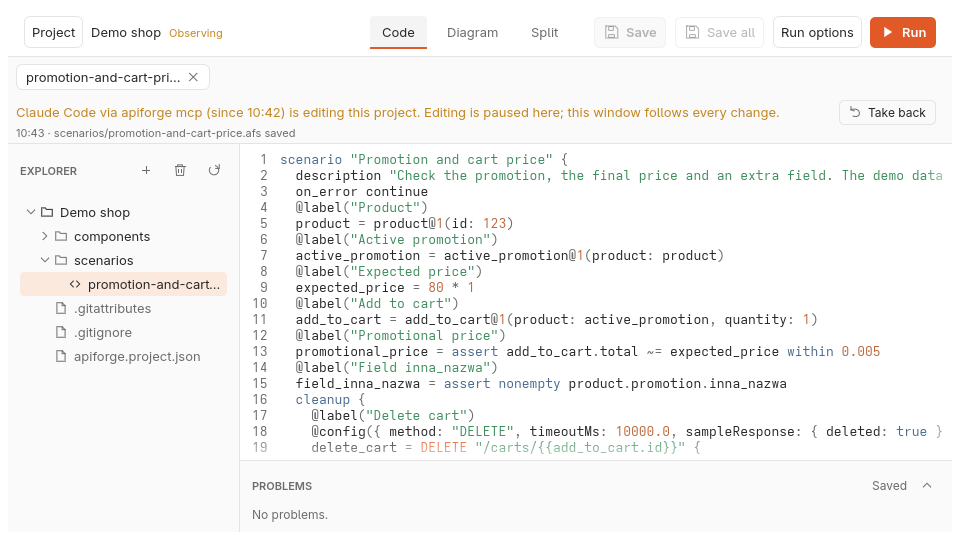
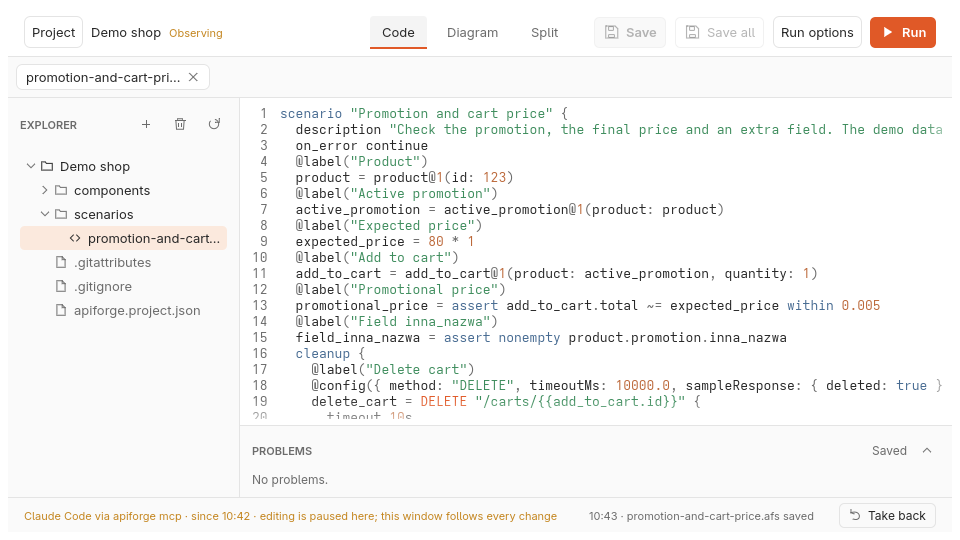
docs(mcp): M1/M4 approved as the bottom status bar; the window tickets follow the round-4 captures

diff --git a/docs/tickets/MCP-07.md b/docs/tickets/MCP-07.md
@@ -20,15 +20,18 @@ holder that is still there.
 
 ## What the owner will see
 
-- New: the read-only notice names the holder and when it took the project:
-  *Claude Code via apiforge mcp (since 10:42) is editing this project. This
-  window follows its changes.* For another window: *Another API Forge window
-  (since 10:40)…*; for the command line: *apiforge apply (since 10:41)…*. An
-  older build that wrote nothing into the lock gets today's wording. The
-  exact wording is mock-up M1's.
+- New: a status bar at the bottom of the window (36 px, only while the
+  window is not the writer) names the holder and when it took the project:
+  *Claude Code via apiforge mcp · since 10:42 · editing is paused here; this
+  window follows every change*. For another window: *Another API Forge
+  window · since 10:40 · …*; for the command line: *apiforge apply · since
+  10:41 · …*. The header badge reads *Observing*. The notice under the tabs
+  that says *Another window is editing this project* goes. An older build
+  that wrote nothing into the lock gets a generic *Another process* wording
+  in the bar. Mock-up M1, round 4, approved 2026-10-27.
 - Changed: a read-only window checks once a second (with the existing
   external check) whether the holder is gone and, when it is, takes the lock,
-  drops the badge and the notice, and enables *Save*, *Save all* and
+  drops the badge and the bar, and enables *Save*, *Save all* and
   *Publish*. If the holder left an activated transaction, the window's
   recovery view opens as at start; if it left an interrupted live run, the
   journal notice appears as at start.
@@ -38,9 +41,9 @@ holder that is still there.
 
 ## Mock-up
 
-M1 (MCP-00): an annotated review capture of the folder window's header and
-notice at 960 × 540 and 1600 × 1000 with the wording for the agent, another
-window and `apply`, from a throwaway `review_*` test, posted on the issue.
+M1 (MCP-00), round 4, approved 2026-10-27:
+`docs/qa/2026-10-27/MCP-00/m1-*.png` — the header badge and the bottom bar
+at 960 × 540 and 1600 × 1000 for the agent, another window and `apply`.
 
 ## Decisions for the owner
 
@@ -56,11 +59,11 @@ window and `apply`, from a throwaway `review_*` test, posted on the issue.
    path or a secret — and `ProjectStore::holder()` reads it from a read-only
    store; the file is still never unlinked or replaced (KTLO-21's tests pass
    unchanged).
-2. A window opened while a process holds the lock shows the notice with that
+2. A window opened while a process holds the lock shows the bar with that
    process's description; while a lock file from an older build (empty) is
-   held, it shows today's wording.
+   held, it shows the generic wording.
 3. When the holder releases the lock, the read-only window becomes the writer
-   within two seconds: the badge and the notice disappear, *Save* is enabled,
+   within two seconds: the badge and the bar disappear, *Save* is enabled,
    and a save succeeds (headless interaction test: take the lock in the test,
    open the window, release, settle, assert through named widgets).
 4. The take-back never steals: while the holder still holds the lock, the
@@ -70,8 +73,9 @@ window and `apply`, from a throwaway `review_*` test, posted on the issue.
 5. A holder that left an activated transaction: the window, on take-back,
    opens the recovery view it opens at start; a holder that left an
    interrupted live run: the journal notice appears, as at start.
-6. At 960 × 540 the longer notice stays inside the window
-   (`assert_within_window`) in Code, Diagram and Split.
+6. At 960 × 540 the bar and the badge stay inside the window
+   (`assert_within_window`) in Code, Diagram and Split; the Problems panel
+   and the diagram's zoom bar sit above the bar without overlap.
 7. The QA report compares the implementation against M1; the verification
    commands of the development guide pass.
 

diff --git a/docs/tickets/MCP-00.md b/docs/tickets/MCP-00.md
@@ -503,10 +503,10 @@ a throwaway branch, at 960 × 540 and 1600 × 1000, posted to the issue.
 
 | Mock-up | Shows | Ticket |
 | --- | --- | --- |
-| M1 | The holder's name in the notice for an agent, another window and `apply`; the *Observing* badge; the paused editor; *Take back*; the last-change line | MCP-07, MCP-08a, MCP-08b |
+| M1 | The *Observing* badge in the header and a **status bar at the bottom of the window** (36 px, shown only while observing): the holder's name for an agent, another window and `apply`; the last-change line; *Take back* at the right end | MCP-07, MCP-08a, MCP-08b |
 | M2 | The hand-over prompt with unsaved work: the files, *Save all and hand over*, *Not now* | MCP-08c |
 | M3 | *Project settings* in observer mode with the *Agent* section and the live toggle; the *Live allowed* badge in the header | MCP-09 |
-| M4 | The agent run status line: running, then passed | MCP-10 |
+| M4 | The agent's run status in the same bar, in place of the last-change line: running, then passed | MCP-10 |
 
 The captures are under `docs/qa/2026-10-27/MCP-00/` (`m1-*`, `m2-*`, `m3-*`,
 `m4-*`, rendered 2026-10-27 from the throwaway branch `mock/mcp-00-m1-m4`)
@@ -515,10 +515,15 @@ owner: the settings dialog's footer *Apply changes, then use Save all…* reads
 oddly while observing and needs its wording; at 960 × 540 on a component tab
 (which has *Publish*) the two badges *Observing · Live allowed* may collide
 with the mode tabs — MCP-09 solves it (a shorter badge or a tooltip-only
-state) and its QA proves it. Owner decision of 2026-10-27 on the captures: M2, M3 and M4 approved as a
-whole; M1 approved except the *Take back* button, found ugly — a second
-round renders it in the window's own button style and goes to #66; the
-settings footer and *Apply settings* are hidden while observing (MCP-09).
+state) and its QA proves it. Owner decisions of 2026-10-27 on the captures: M2 and M3 approved as a
+whole (the settings footer and *Apply settings* hidden while observing,
+MCP-09). M1 and M4 went through four rounds: the notice under the tabs with
+a plain button (round 1, button rejected), the window's own button style
+(round 2), everything moved to a bottom status bar at the owner's suggestion
+(round 3), and the bar's margins corrected (round 4, **approved**): the
+committed `m1-*` and `m4-*` captures are round 4; the `m3-header-*` capture
+still shows the round-1 notice, which M3 does not decide. At 960 px with a
+run status the bar shortens the holder text, never the status (MCP-10).
 
 ## Tickets
 
